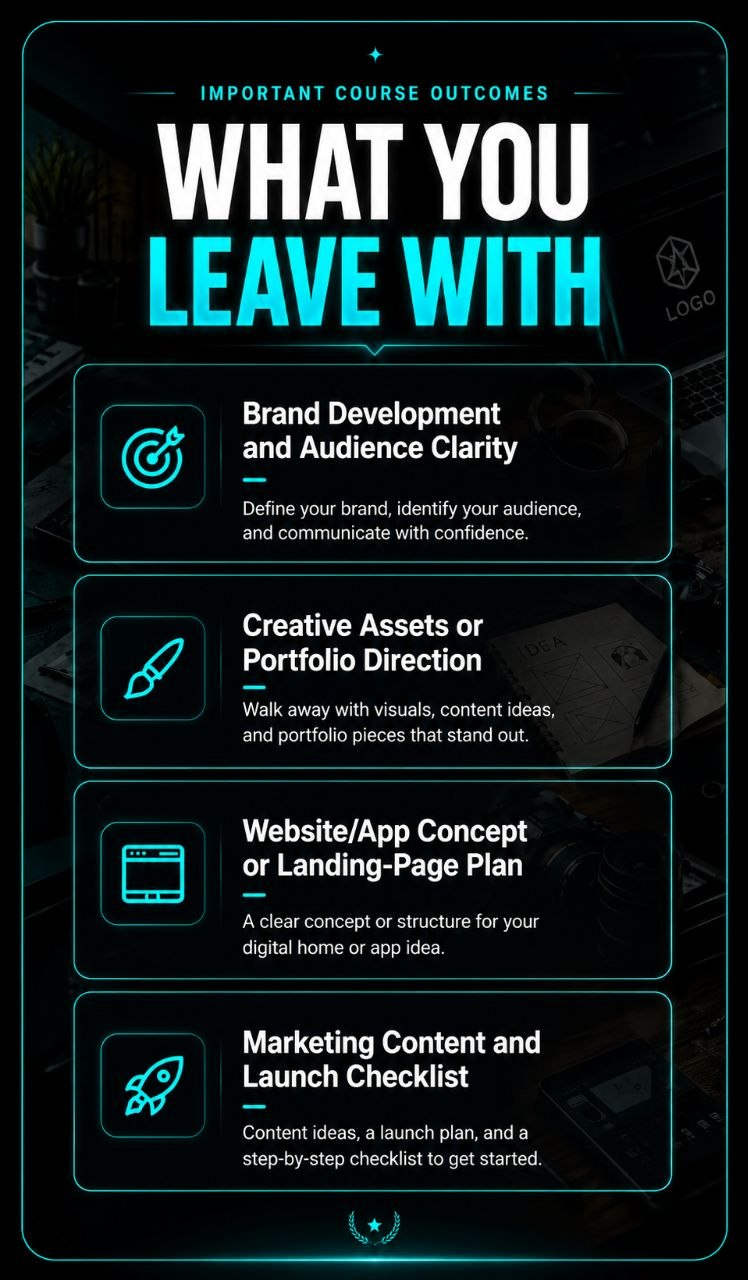
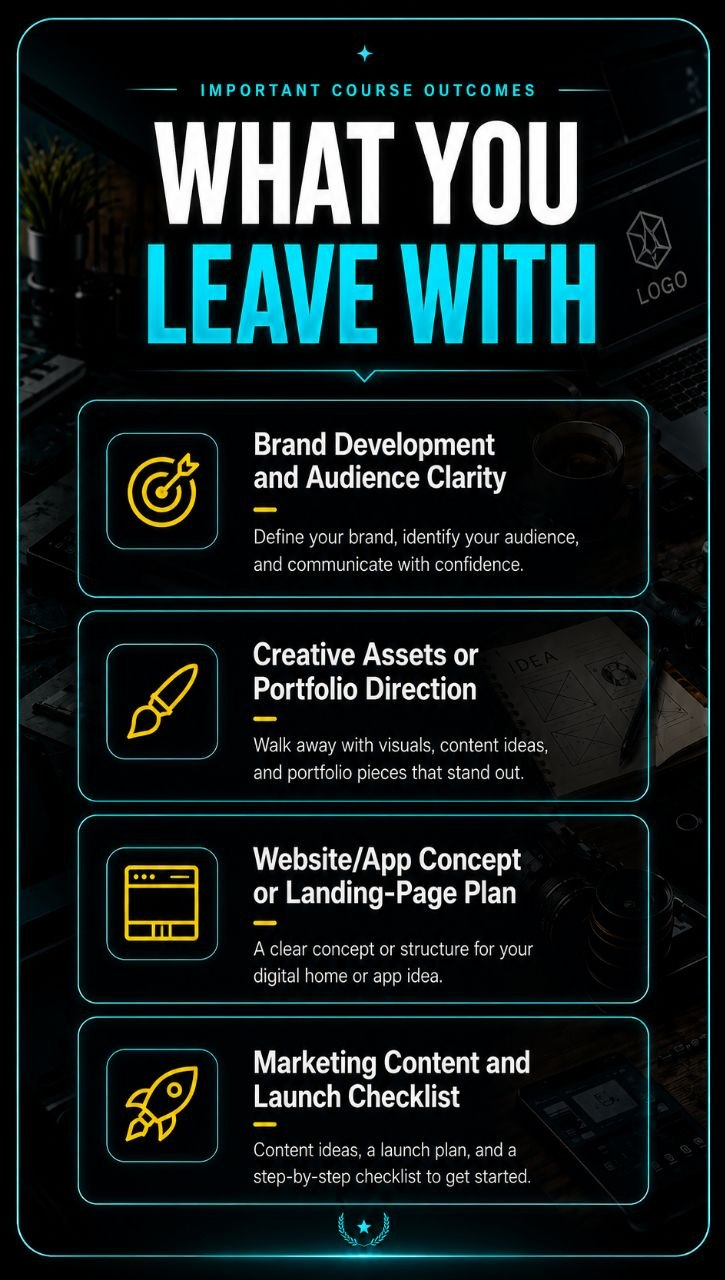
Update outcomes card with floating reveal

Changed region(s): [[0.0, 0.0, 1.0, 1.0], [0.789, 0.9062, 0.8497, 0.9375]]

diff --git a/app/styles.css b/app/styles.css
@@ -280,6 +280,13 @@ h3 { font-size: 1.35rem; font-weight: 900; letter-spacing: -0.025em; line-height
   width: 100%;
   height: auto;
 }
+.outcomes-image-card.reveal-card {
+  transform: translateY(52px) scale(.965);
+  transition-duration: .85s;
+}
+.outcomes-image-card.reveal-card.is-visible {
+  transform: translateY(0) scale(1);
+}
 .showcase-section { padding-top: 54px; }
 .showcase-tabs { display: flex; gap: 8px; flex-wrap: wrap; margin-bottom: 18px; }
 .tab-button { min-height: 40px; padding: 0 14px; border: 1px solid rgba(0,255,255,.2); border-radius: 999px; background: rgba(16,20,27,.72); color: #e8edf5; font: inherit; font-size: .9rem; font-weight: 900; cursor: pointer; }

diff --git a/app/index.html b/app/index.html
@@ -80,7 +80,7 @@
     </section>
 
     <section id="outcomes" class="section outcomes-section">
-      <figure class="outcomes-image-card">
+      <figure class="outcomes-image-card reveal-card">
         <img src="./assets/generated/what-you-leave-with-card.jpg" alt="Important course outcomes: What You Leave With — Brand Development and Audience Clarity; Creative Assets or Portfolio Direction; Website/App Concept or Landing-Page Plan; Marketing Content and Launch Checklist" loading="lazy" />
       </figure>
     </section>